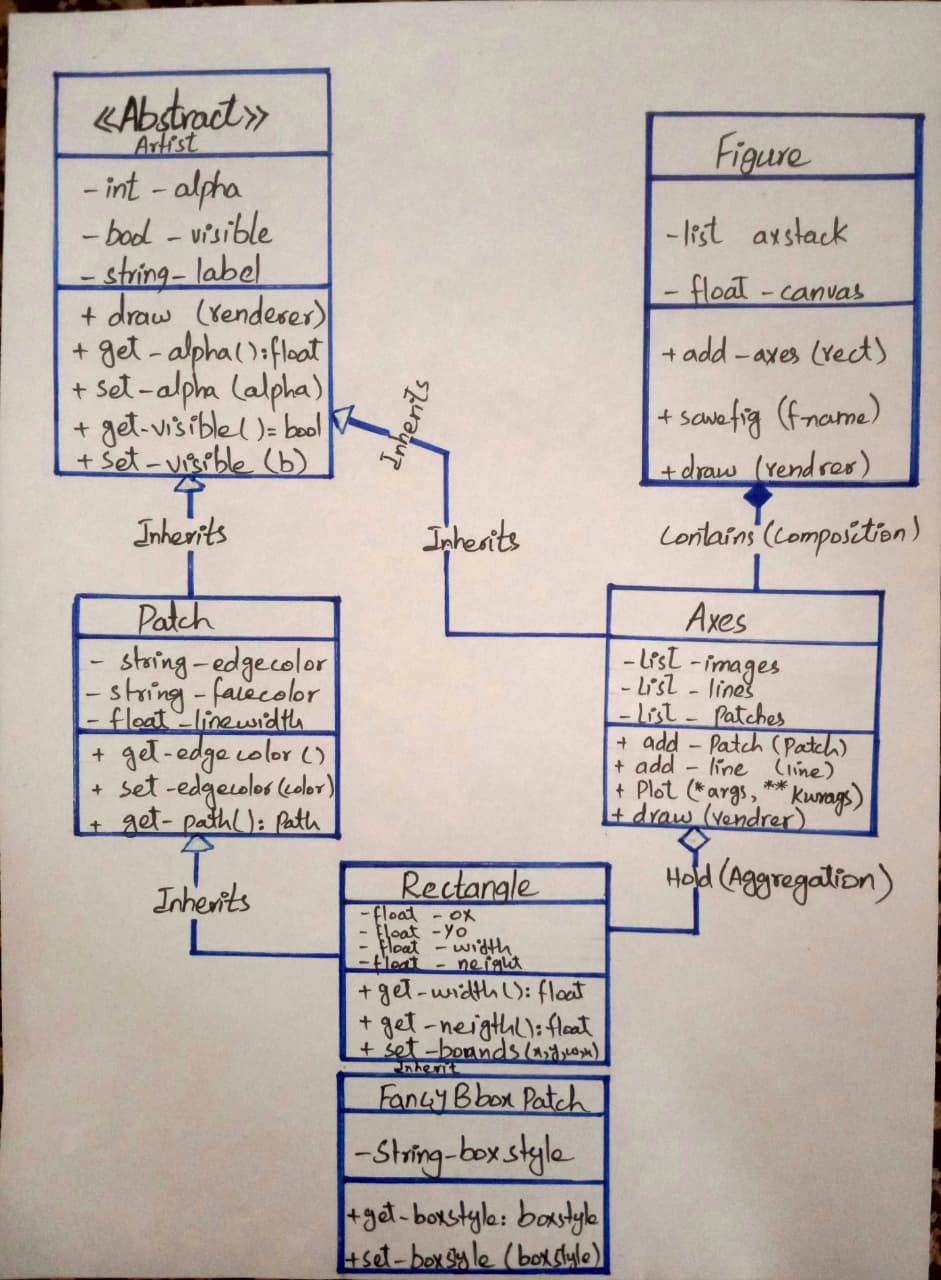
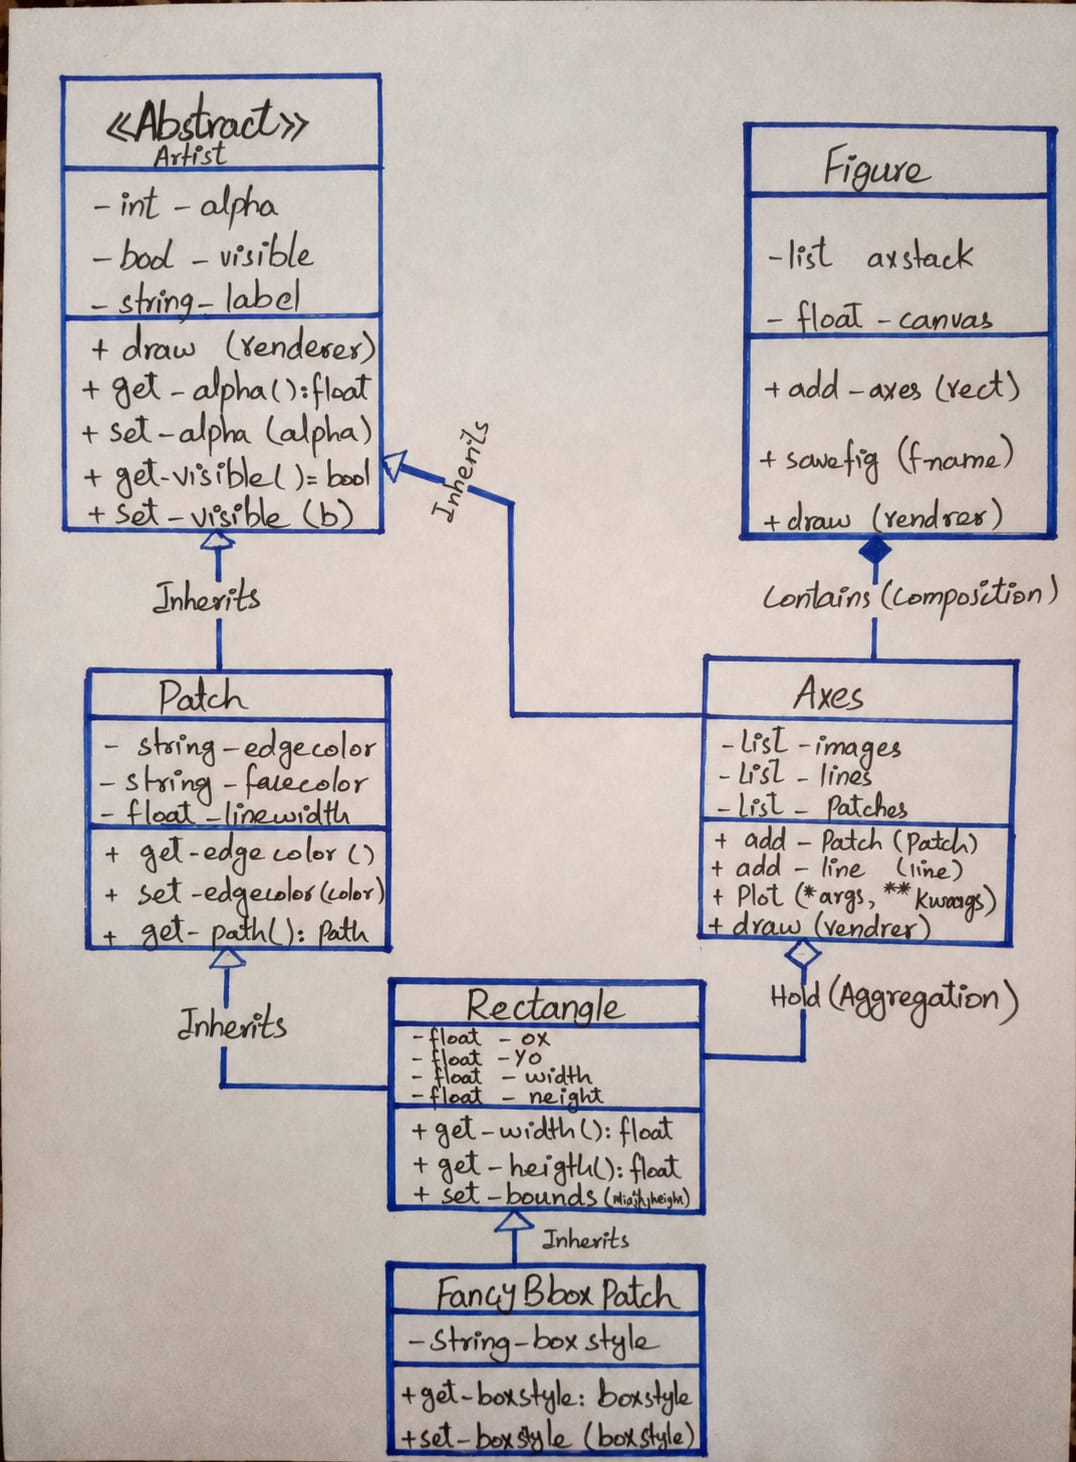
Diagram Updated

Changed region(s): [[0.0, 0.0, 0.9862, 1.0], [0.9862, 0.5625, 1.0, 1.0], [0.0, 0.9688, 0.0308, 1.0]]

diff --git a/README.md b/README.md
@@ -1,0 +1,39 @@
+# OOP Final Term Project — matplotlib Library
+
+**Course:** Object-Oriented Programming  
+**Program:** BS Data Science — Semester 2  
+**Group Members:** Amna Ejaz, Fatima Manzoor, Hasan Ali  
+**Student IDs:** 
+* Amna Ejaz: F25BDATS1M02085
+* Fatima Manzoor: F25BDATS1M02087
+* Hasan Ali: F25BDATS1M02078
+**Library:** matplotlib  
+**Date:** May 2026 
+
+
+## Project Description
+
+This project performs an in-depth Object-Oriented Design (OOD) analysis of the **matplotlib** library — Python's most popular 2D data visualization library. The goal is to identify and demonstrate how real-world OOP principles (Inheritance, Encapsulation, Polymorphism, Abstraction) are applied inside the matplotlib source code.
+
+A custom Python class `MyCustomAxis` is also built that extends matplotlib's `Axis` class to add new functionality.
+
+
+
+## Folder Structure
+
+
+matplotlib-oop-project/
+│
+├── code/
+│   └── my_extension.py       ← Custom class 
+│   └── Demo.py               ← Demo of code 
+│
+├── report/
+│   └── report.docx           ← Full written report
+│
+├── diagrams/
+│   └── UML_Diagram_of_matplotlip_claasses.jpeg       ← UML class diagram
+│
+└── README.md
+
+